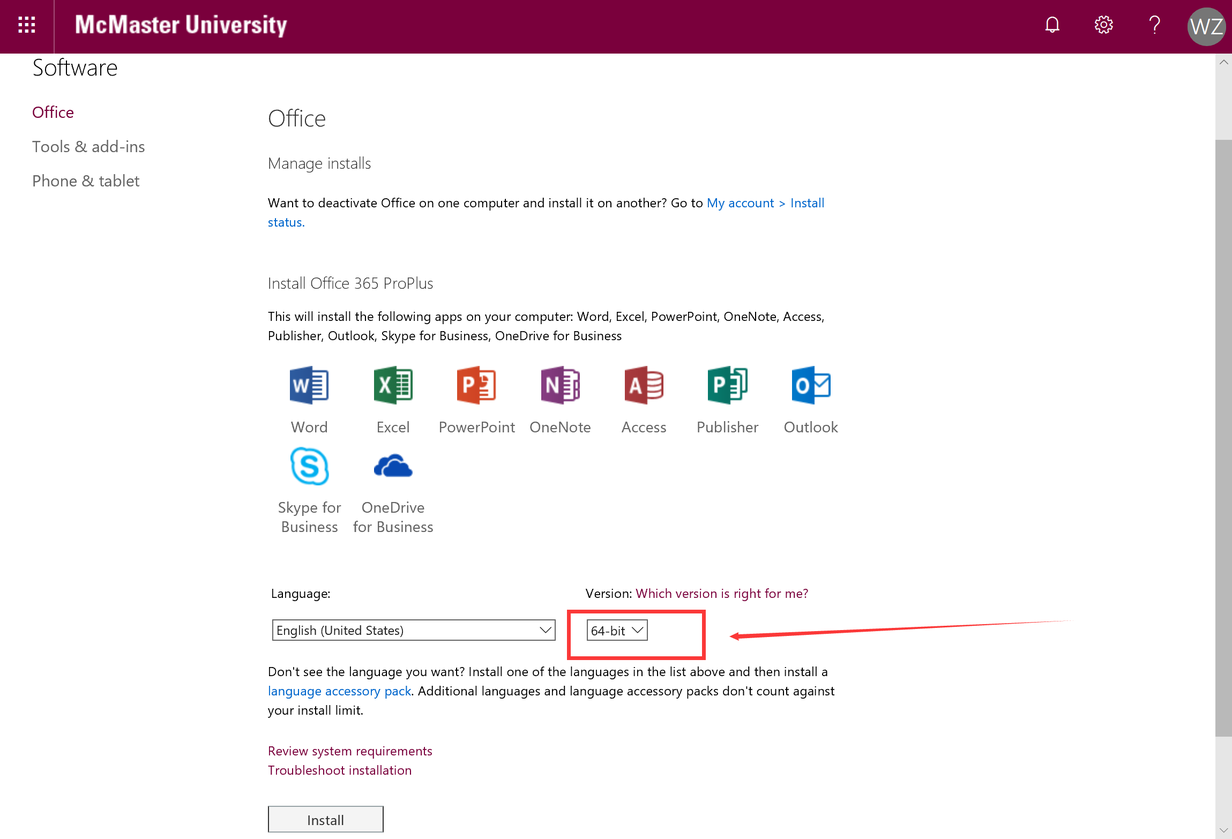
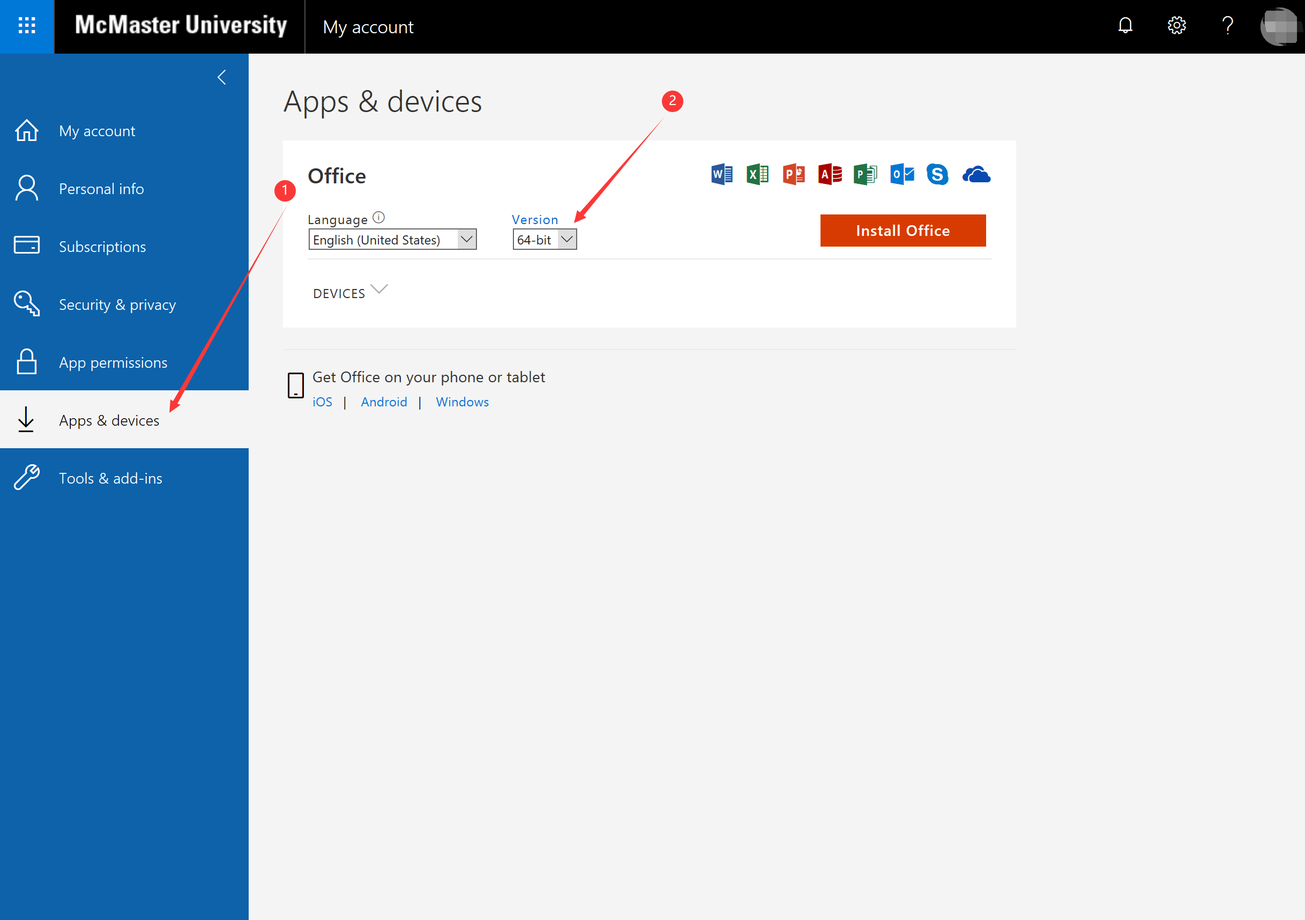
更新微软办公软件、网盘获取方式。更新相关信息

diff --git a/docs/BanGongRuanJianHeWangPan.rst b/docs/BanGongRuanJianHeWangPan.rst
@@ -3,10 +3,7 @@
 Microsoft Office 365
 -----------------------------
 | 学校已经为每一个在职的学生和员工购买了Office 365 ProPlus的授权。新生可能要等开学后半个月才能使用。https://www.mcmaster.ca/uts/licensing/msstudents.html
-| 学校购买的Office 365包括两部分服务：
-
-- Office 365 A1 for students：主要包括在线版本的office和团队合作工具Teams。https://products.office.com/en-us/academic/compare-office-365-education-plans
-- Office 365 ProPlus for students：主要包括完整的桌面版和移动版的office套件，以及Onedrive for business网盘。
+| 学校购买的Office 365订阅服务是：Microsoft 365 A3 for students use benefit（https://www.microsoft.com/en-ca/microsoft-365/academic/compare-office-365-education-plans）。它主要包括在线版本的office和团队合作工具Teams，以及Office 365 ProPlus for students。后者就是完整的桌面版和移动版的office套件，以及Onedrive for business网盘。
 
 .. image:: /resource/office365/Software_List.png
    :align: center
@@ -32,9 +29,7 @@ Microsoft Office 365
 .. image:: /resource/office365/office365_2.png
    :align: center
 
-第三步：在version的地方选择64-bit，然后点击下方的Install。
-
- | 这时候会下载一个exe的文件，它仅仅是一个安装器，它的作用是在线下载最新的office，并且是边下载边自动安装（click-to-run技术）。它不会下载一个iso镜像，但macOS版会下载一个镜像，然后自己去安装。
+第三步：先点击“Apps & devices”，然后在version的地方选择64-bit，最后点击下方的“Install Office”。这时候会下载一个exe的文件，它仅仅是一个安装器，它的作用是在线下载最新的office，并且是边下载边自动安装（click-to-run技术），而并不会下载一个iso镜像。但如果是macOS版，则会下载一个镜像，然后自己去安装。
 
 .. image:: /resource/office365/office365_3.png
    :align: center
@@ -65,32 +60,41 @@ Microsoft Office 365
 
 Windows 10 Education
 ----------------------------------------------
-McMaster已经为每一个学生购买了授权，每个学生都能得到一个正版的Windows 10 Education的序列号，Education版和Pro版的功能基本一致。大家如果有还是安装着Windows 10之前版本的老电脑，或Mac电脑装双系统，可以考虑用学校购买的授权。
+McMaster已经为每一个学生购买了授权，每个学生都能得到一个正版的Windows 10 Education的序列号，Education版和Pro版的功能基本一致，唯一的区别是桌面右下角会有“Windows 10 Education”一行小字。大家如果有还是安装着Windows 10之前版本的老电脑，或Mac电脑装双系统，可以考虑用学校购买的授权。
 
-| 获取地址：https://mcmaster.onthehub.com/WebStore/Welcome.aspx
-| 登录上面的网址，点击“Start Shopping”。
-| 用户名是MacId@mcmaster.ca，密码是登录mosaic的密码。
-| 可能需要做一个简单的问卷，然后就可以看到了Windows 10的下载了。
+- 获取地址：https://mcmaster.onthehub.com/WebStore/Welcome.aspx
+- 登录上面的网址，点击“Start Shopping”。
+- 用户名是MacId@mcmaster.ca，密码是登录mosaic的密码。
+- 可能需要做一个简单的问卷，然后就可以看到了Windows 10的下载了。登录进去上面的页面，还可以看到VMWare虚拟机的下载选项，这个软件也是免费的。大家如果需要安装VMWare的虚拟机，比如：VMware Fusion、VMware Workstation、VMware Workstation Player等等，也可以在这里下载到。
 
 .. image:: /resource/office365/windows10education.png
    :align: center
 
 注：Microsoft从Windows 10开始改变授权方式，一旦Windows 10在一台设备上激活，在硬件没有大的变动的情况下，重装任意多次相同的版本，联网后依然可以自动激活。比如：之前在某台电脑上激活过Win10 Home版，则可以重装任意次Home版都可以联网自动激活。但不可跨版本，比如之前激活过Home版，如果新装Pro版则不能自动激活，需要另外找Pro版的序列号。
 
+微软所有正版软件
+----------------------------------------------------
+McMaster已经为每一个学生都购买了Azure Dev Tools for Teaching（原来叫Imagine Premium）的授权，这样学生可以下载到所有微软还在支持的正版软件。例如：Windows 10 Pro、Visual Studio、SQL Server、Windows Server等等。
+
+| 获取步骤：
+| 第一步：登录UTS的网站（https://www.mcmaster.ca/uts/licensing/msstudents.html），点击“Azure Dev Tools for Teaching”下面的网页链接。
+
+.. image:: /resource/office365/MicrosoftZhengBanRuanJian01.png
+   :align: center
+
+第二步：在打开的网页里点击Sign in。用户名是麦马的邮箱，密码是mosaic的密码。
+
+.. image:: /resource/office365/MicrosoftZhengBanRuanJian02.png
+   :align: center
+
+第三步：先点击左边的“Software”，然后点击想要下载的软件，比如“Windows 10 (consumer editions), version 1909”。这时候在右边的弹出框中点“View Key”，这是系统就会给你一个正版的序列号，最后点“Download”按钮下载软件。
+
+.. image:: /resource/office365/MicrosoftZhengBanRuanJian03.png
+   :align: center
+
 网盘
 -----------------------------
-1. Microsoft Onedrive：Microsoft给每个注册了outlook.com、hotmail.com、live.com、msn.com邮箱的用户免费提供了Onedrive网盘。
-
-- 存储空间：5GB（免费）
-- 下载地址：①Windows 10：系统自带。②Windows 10之前版本的系统或macOS：https://onedrive.com/download 。
-- 官网：https://onedrive.com/
-- 登录方法：用微软邮箱登录后就可以使用。
-- 手机App：
-
-  - iOS：https://itunes.apple.com/ca/app/microsoft-onedrive/id477537958?mt=8
-  - Android：https://play.google.com/store/apps/details?id=com.microsoft.skydrive
-
-2. Microsoft Onedrive for Business：学校为所有学生和员工购买的office365里附带了Onedrive for Business网盘。
+1. Microsoft Onedrive for Business：学校为所有学生和员工购买的office365里附带了Onedrive for Business网盘。
 
 - 存储空间：1TB
 - 下载地址：①Windows 10：系统自带，②Windows 10之前版本的系统或macOS：https://onedrive.com/download 。
@@ -104,10 +108,40 @@ McMaster已经为每一个学生购买了授权，每个学生都能得到一个
 .. image:: /resource/office365/onedrive_2.png
    :align: center
 
-3. Google Drive（Personal）：Google为每个注册Gmail的用户提供Google Drive网盘。
+2. Google Drive（G Suite）：大家用的MacID@mcmaster.ca的麦马的邮箱里自带了Google Drive网盘。
+
+- 存储空间：Unlimited
+- 下载地址： https://www.google.com/drive/download/
+- 官网：https://drive.google.com/
+- 登录方法：用户名：MacID@mcmaster.ca。密码：登录mosaic的密码。
+- 注：在国内无法访问。毕业后由于MacID失效，网盘也会自动失效，所以毕业前请务必尽快下载备份。
+
+3. Macdrive：McMaster自建的网盘服务。用来存储不方便传播到校外的文件。
+
+- 存储空间：300GB
+- 下载地址： https://macdrive.mcmaster.ca/download_client_program/
+- 官网：https://macdrive.mcmaster.ca/
+- 登录方法：用户名：MacID@mcmaster.ca。密码：登录mosaic的密码。
+- 手机App：
+
+  - iOS：https://apps.apple.com/cn/app/seafile-pro/id639202512?l=en
+  - Android：https://play.google.com/store/apps/details?id=com.seafile.seadroid2
+
+4. Microsoft Onedrive：Microsoft给每个注册了outlook.com、hotmail.com、live.com、msn.com邮箱的用户免费提供了Onedrive网盘。
+
+- 存储空间：5GB（免费）
+- 下载地址：①Windows 10：系统自带。②Windows 10之前版本的系统或macOS：https://onedrive.com/download 。
+- 官网：https://onedrive.com/
+- 登录方法：用微软邮箱登录后就可以使用。
+- 手机App：
+
+  - iOS：https://itunes.apple.com/ca/app/microsoft-onedrive/id477537958?mt=8
+  - Android：https://play.google.com/store/apps/details?id=com.microsoft.skydrive
+
+5. Google Drive（Personal）：Google为每个注册Gmail的用户提供Google Drive网盘。
 
 - 存储空间：15GB（免费）
-- 下载地址：https://www.google.com/drive/download/client/
+- 下载地址：https://www.google.com/drive/download/
 - 官网：https://drive.google.com/
 - 登录方法：使用Gmail的邮箱账户登录即可。
 - 手机App：
@@ -116,24 +150,15 @@ McMaster已经为每一个学生购买了授权，每个学生都能得到一个
   - Android：https://play.google.com/store/apps/details?id=com.google.android.apps.docs
 - 注：在国内无法访问。
 
-4. Google Drive（G Suite）：大家用的MacID@mcmaster.ca的Google企业邮箱里自带了Google Drive网盘。
+其它常用软件
+----------------------------------
+1) WinRAR：http://rarlab.com/
+#) Adobe Acrobat Reader：https://get.adobe.com/reader/
+#) MATLAB：https://pan.luochenzhimu.com/disk/software/MATLAB/
+#) LaTeX：下面两个必须都安装
 
-- 存储空间：Unlimited
-- 下载地址： https://www.google.com/drive/download/client/
-- 官网：https://drive.google.com/
-- 登录方法：用户名：MacID@mcmaster.ca。密码：登录mosaic的密码。
-- 注：在国内无法访问。毕业后由于MacID失效，网盘也会自动失效，所以毕业前请务必尽快下载备份。
-
-5. Dropbox：它也是比较流行的网盘。
-
-- 存储空间：2GB（免费）
-- 下载地址： https://www.dropbox.com/install
-- 官网：https://www.dropbox.com/login
-- 登录方法：在Dropbox官网上自行注册登录。
-- 手机App：
-
-  - iOS：https://itunes.apple.com/ca/app/dropbox/id327630330?mt=8
-  - Android：https://play.google.com/store/apps/details?hl=en&id=com.dropbox.android
+- LaTex符号集、命令行编译器（先安装）：https://miktex.org/download
+- TeXstudio：https://www.texstudio.org 这是一个带有图形界面集成开发环境，带有语法高亮、关键词提示及自动补全、自动安装缺失的package等功能的LaTeX集成环境，必须等上面的安装完毕之后再安装。
 
 Microsoft实用办公工具
 --------------------------------------------------
@@ -155,7 +180,7 @@ Microsoft实用办公工具
 
   - iOS：https://itunes.apple.com/app/microsoft-to-do/id1212616790
   - Android：https://play.google.com/store/apps/details?id=com.microsoft.todos
-  - Windows 10 App：https://www.microsoft.com/en-CA/store/p/project-cheshire/9nblggh5r558?rtc=1
+  - Windows 10 App：https://www.microsoft.com/en-ca/p/microsoft-to-do-lists-tasks-reminders/9nblggh5r558?rtc=1
 
 4. Microsoft Edge：微软windows 10自带浏览器的手机版。
 
@@ -178,16 +203,6 @@ Microsoft实用办公工具
   - iOS：https://itunes.apple.com/ca/app/microsoft-remote-desktop/id714464092?mt=8
   - Android：https://play.google.com/store/apps/details?id=com.microsoft.rdc.android
 
-其它常用软件
-----------------------------------
-1) WinRAR：http://rarlab.com/
-#) Adobe Acrobat Reader：https://get.adobe.com/reader/
-#) MATLAB：https://pan.luochenzhimu.com/disk/software/MATLAB
-#) LaTeX：下面两个必须都安装
-
-- LaTex符号集、命令行编译器（先安装）：https://miktex.org/download
-- TeXstudio：https://www.texstudio.org 这是一个带有图形界面集成开发环境，带有语法高亮、关键词提示及自动补全、自动安装缺失的package等功能的LaTeX集成环境，必须等上面的安装完毕之后再安装。
-
 附
 -------------------------
 1. Office 2019 和 Office 365
@@ -206,19 +221,9 @@ Microsoft实用办公工具
 
 - outlook.com：就是我们平常说的个人版的outlook邮箱。
 - Outlook：指的是Microsoft推出的邮箱客户端，仅仅是个软件。可以同步几乎所有的邮箱，包括outlook.com、Gmail、163邮箱等等的邮件。
-- Exchange：Microsoft推出的企业邮箱，企业付费后可以自定义用户名和域名，比如McMaster的企业邮箱的用户名和域名就是 MacID@mcmaster.ca。
+- Exchange：Microsoft推出的企业邮箱，企业付费后可以自定义用户名和域名，比如McMaster的企业邮箱的用户名和域名就是MacID@mcmaster.ca。
 
-3. Microsoft Imagine Premium：部分学院额外为本院每一个学生购买了Microsoft Imagine Premium的授权。这些学院的学生可以免费获得微软所有的正版软件（Microsoft Office除外）及序列号。这其中包括了Windows 10 Pro版。请联系本学院technical staff获取账户。用户名通常是McMaster的邮箱，密码是mosaic的密码。账户在McMaster上学期间长期有效，毕业后自动失效，但已经生成的正版序列号和已经激活的软件不会失效，可以长期使用。
-
-- ECE：http://dreamspark.ece.mcmaster.ca/ 。使用ECE的domain账户登录，不是mosaic账户。如果没有，可以找小秘或technical staff设置一下。在校外访问需要VPN。
-- CAS：https://e5.onthehub.com/WebStore/ProductsByMajorVersionList.aspx?cmi_cs=1&cmi_mnuMain=bdba23cf-e05e-e011-971f-0030487d8897&ws=925e5046-720e-e211-bd05-f04da23e67f6&vsro=8 
-- Business：https://mcmastermba.onthehub.com/WebStore/Welcome.aspx?utm_medium=school-finder&utm_campaign=school-finder&utm_source=McMaster%20University%20DeGroote%20School%20of%20Business
-- Mechanical Engineering：https://e5.onthehub.com/WebStore/ProductsByMajorVersionList.aspx?cmi_cs=1&cmi_mnuMain=bdba23cf-e05e-e011-971f-0030487d8897&ws=fca22d24-02cf-e711-80f9-000d3af41938&vsro=8
-
-.. image:: /resource/office365/Imagine_Premium.png
-   :align: center
-
-4. 学院服务器：部分学院提供了高性能计算机或超级计算机供学生使用。
+3. 学院服务器：部分学院提供了高性能计算机或超级计算机供学生使用。
 
   A. Computing and Software
 
@@ -240,7 +245,7 @@ Microsoft实用办公工具
   - https://rhpcs.mcmaster.ca/
   - 请联系导师或本院的technical staff。
 
-5. 多人实时共同编辑一个文档
+4. 多人实时共同编辑一个文档
 
 - 如果使用Onedrive网盘，则可以实现多人实时共同编辑一个Word文档、Excel、PowerPoint的功能。以下是步骤：
 

diff --git a/docs/KanBingYuBaoXian.rst b/docs/KanBingYuBaoXian.rst
@@ -23,7 +23,7 @@
 
 一、UHIP/OHIP
 
-- 国际学生参加的是UHIP（University Health Insurance Plan），而Canada本国学生（Permanent residence和Canada citizen）参加的是OHIP（Ontario Health Insurance Plan）。UHIP从刚来Canada入学的前一个月的10号开始生效。毕业后可申请延长最多4个月。
+- 国际学生参加的是UHIP（University Health Insurance Plan），而Canada本国学生（Permanent residence和Canada citizen）参加的是OHIP（Ontario Health Insurance Plan）。UHIP从刚来Canada入学的前一个月的10号开始生效。毕业后，可以因要等待参加毕业典礼或者论文答辩延长最多4个月。
 - 官网：https://uhip.ca/
 - 费用（2019年）：国际学生需要付费参加UHIP，近几年的年费是单人$636，学生家属的费用和学生一样。
 - 学校的UHIP由Sun Life承保，从2017年开始学校会把UHIP coverage card（医保卡）通过邮件的方式发给大家，如果没收到可以自行上Sun Life网站打印UHIP coverage card。教程：http://uhip.ca/Enrollment/CoverageCard 。建议大家把打印出来的coverage card和自己的护照或驾照放一起。平时随身携带，以防万一。
@@ -118,7 +118,7 @@
   - UHIP
   - MSU Health Plan Insurance
   - MSU Dental Plan Insurance
-- 联培的学生（Visiting Student）
+- 联培学生（Visiting Student）
 
   - UHIP Premium
 - 博士后（Post Doc）：具体看 https://hr.mcmaster.ca/resources/benefit-booklets/ 。在搜索框里填写“post doc”。
@@ -129,13 +129,19 @@
   - Extended Health（药费等，学校付钱）
   - Group Life（生命安全保险，学校付钱）
 
-注：五月份入学的学生虽然自动会有UHIP，但不会自动购买GSA Health/Dental Insurance Plan。这就需要新生自己Self Enrolment。详情：http://studentcare.ca/rte/en/McMasterUniversity_ChangeofCoverage_SelfEnrolment
+注：
 
-2. 退出（opt out）：学校的保险都是强制购买的，如果想退出只能是在其它地方已经购买了相同的保险。常见情形仅有如下：
+- 五月份入学的学生虽然自动会有UHIP，但不会自动购买GSA Health/Dental Insurance Plan。这就需要新生自己Self Enrolment。详情：http://studentcare.ca/rte/en/McMasterUniversity_ChangeofCoverage_SelfEnrolment
+- 联培学生（Visiting Student）需自己购买UHIP，因为学校并不清楚学生何时来Canada。https://iss.mcmaster.ca/studentlife/healthcare/#visiting
+
+2. 退出（opt out）：学校的保险都是强制购买的，如果想退出只能是在其它地方已经购买了相同的保险或者变更了移民身份。常见情形仅有如下：
 
 - 如果有TA或者RA in lieu，则属于CUPE工会的成员，工会成员有CUPE Unit 1 Dental Plan，则这个时候自动退出GSA Dental Insurance Plan，并且还可以从UHIP中退回$200的保费。
 - 如果就读的项目是Part Time的，意思就是在校外公司有全职的工作，与此同时在麦马读了一个在职研究生。通常稍大的公司都会为员工购买保险，这时候就不需要购买GSA的Health和Dental的保险了。学校会先收相应的费用，然后再自己申请退出保险，退回保费。申请退出保险有时间限制，通常是term 1或term 2开学的第一个月。具体看：http://studentcare.ca/rte/en/McMasterUniversity_ChangeofCoverage_OptOuts
-- 已经毕业的研究生。例如：读一个学位是16个月，第二年term 1学期结束后就毕业回国了，那可以申请退回部分UHIP的费用。详情看：https://iss.mcmaster.ca/studentlife/healthcare/#refunds 和 https://iss.mcmaster.ca/studentlife/healthcare/#exemptions
+- 12月毕业的研究生：https://iss.mcmaster.ca/studentlife/healthcare/#refunds
+
+  - 毕业后依然在Canada：可退回2个月的UHIP的费用。UHIP的有效期变成6月30日。
+  - 毕业后在6月底之前离开Canada：可以申请把UHIP的有效期变更为最后留在Canada的那个月，退会之后月份的费用。
 - MBA学生：https://www.msumcmaster.ca/services-directory/36-health-and-dental-insurance/opt-out
 
 看病

diff --git a/docs/QiTaMcMasterGongLveHuiZong.rst b/docs/QiTaMcMasterGongLveHuiZong.rst
@@ -29,7 +29,7 @@
 1) 比较特殊的是Boxing Day和New Year's Day中间只有几天，所以大多数非服务业的职位（包括学生）依然会放假。这时候会出现一个大约10天的长假。
 #) 对于学生来说，是没有暑假和寒假的。一个学年有3个term，每个term是4个月。所以不会有任何假期，包括本科生（本科生term3要去校外实习）。
 #) 对于研究生来说，大部分研究生虽然课程比较少，term5甚至term3开始就没有任何课程了，但不代表就处于放假状态。准确的说，研究生也没有任何假期，即使没有课也要跟导师一起写论文，或做项目。不过大家也不用担心，如果想回国，可以圣诞节到元旦那几天回去。并且大多数导师都会在一年里批一个月的假。
-#) 此外，由于本科生在term 1和term2有recess week（也叫reading week）https://registrar.mcmaster.ca/dates-and-deadlines/ ，这两周不上课，所以有些教授这两周可能也会休息，这样研究生就可以蹭本科生的福利也休息一下。但绝不能保证一定是放假。“There is no official fall break or reading week for graduate students (except MBA). Students should check with their program and their course instructor(s) as to whether classes will be held during these periods.”
+#) 此外，由于本科生在term 1和term2有recess week（也叫reading week） https://registrar.mcmaster.ca/dates-and-deadlines/ ，这两周不上课，所以有些教授这两周可能也会休息，这样研究生就可以蹭本科生的福利也休息一下。但绝不能保证一定是放假。“There is no official fall break or reading week for graduate students (except MBA). Students should check with their program and their course instructor(s) as to whether classes will be held during these periods.”
 
 作息
 ------------------

diff --git a/docs/ZuFang.rst b/docs/ZuFang.rst
@@ -134,7 +134,7 @@ https://housing.mcmaster.ca/future-residents/how-to-apply/#tab-content-returning
 3. 签租房合同（lease agreement），通过扫描和email的方式。
 
 - 从2018年4月30日起，Ontario省租房签的合同必须使用省政府提供的模板（standard lease）。详细说明：http://www.mah.gov.on.ca/Page18704.aspx 。模板地址：http://www.forms.ssb.gov.on.ca/mbs/ssb/forms/ssbforms.nsf/FormDetail?OpenForm&ACT=RDR&TAB=PROFILE&SRCH=&ENV=WWE&TIT=2229E&NO=047-2229E
-- 双方必须都要拿到双方签好字的合同才算签合同完毕。公寓在申请的时候会提供一堆个人材料，比如护照、收入证明、SIN、前任房东的联系方式等等。并且会强制额外购买财产保险（大概每年一二百加元）。
+- 双方必须都要拿到双方签好字的合同才算签合同完毕。公寓在申请的时候会提供一堆个人材料，比如护照、收入证明、SIN、前任房东的联系方式等等。并且会强制额外购买财产保险（大概每年一二百加元）。购买租客保险可以联系群里的19-MBA-王乐雪，详见 `房屋保险`_ 。
 
 4. 交定金（deposit）：交完定金可以让房东写一个收据（receipt）。定金可以通过western union或已经在Hamilton的学长学姐们帮忙交一下。如果大家想找学长学姐交定金，可以先把加元转给他们，然后让他们去交。如果学长学姐同意用人民币抵偿加元，请按加元的现汇卖出价或现钞卖出价来计算所需人民币的数目。http://www.boc.cn/sourcedb/whpj/
 
@@ -259,3 +259,4 @@ https://housing.mcmaster.ca/future-residents/how-to-apply/#tab-content-returning
    - 14-EP-张斌
 
 .. _介绍: GongJiaoChe.html#id2
+.. _房屋保险: FangWuBaoXian.html

diff --git a/docs/QunDaShenJieShao.rst b/docs/QunDaShenJieShao.rst
@@ -18,7 +18,6 @@
 ---------------------------------------
 | ★14-Health Research Method-常亚平：Health Science Ph.D.。本群为数不多的医学院博士，大家有小病小样可以联系她寻求帮助。若对基督教会感兴趣，也可以联系此人。先已毕业在麦马Health Science学院任Assistant Professor。
 | ★15-ECE-Huawei Zhu：ECE PhD。北大毕业来McMaster读博士的才女。虽然在ECE学院，但对经济学颇有了解。
-| ☆15-MED-周光宇：W booth学院Master。周光宇学长在Canada生活多年，对有关车辆的问题了如指掌，例如：驾照、租车、买车、相关政策等等。大家如果有问题，可以写在群里，然后at他。
 | ★16-MEEI-张宸赫：W booth学院Master。他有1年半的两次创业经验，进行产品研发，财务预测，市场投放。任何有想创业想法的同学，不管是灵光一动还是很成熟的想法，都十分非常欢迎去找他共同交流讨论。他目前在Hamilton市中心的CIBC任Financial Services Representative。大家可以去找他开户。
 | ★19-CAS-郝鸣飞：2014年在麦马开始硕士的学习，毕业后在多伦多一家软件公司任Lead Software Architecturer（首席软件架构师），对计算机行业各种最新的技术深有了解。2019年初回麦马继续上PhD（part-time）。欢迎大家和他交流与计算机相关的任何问题。
 | ★19-MBA-王乐雪：Degroote商学院MBA。王乐雪学姐对有关新车二手车保险、住房保险的相关问题颇有了解，例如保险价格、购买、续约等。大家在购买保险前，有任何保险相关的问题，可以写在群里at学姐，知无不答。

diff --git a/docs/McMasterChengJiDanZhengMingXin.rst b/docs/McMasterChengJiDanZhengMingXin.rst
@@ -1,0 +1,29 @@
+McMaster成绩单、证明信
+========================
+由于大家每年在杂费里已经交了相关的费用，所以开具相关材料的时候就不用再额外花钱了。所有麦马给学生开具的证明材料都在Registrar网站上：https://registrar.mcmaster.ca/services/
+
+.. image:: /resource/ChengJiDanFeiYong.png
+   :align: center
+
+1. 成绩单（Transcripts）
+
+ | 麦马的成绩单分为两种：正式的和非正式的成绩单。
+
+- 正式成绩单：雇用单位或者其他的学术机构要求提供时，由学术机构或个人向学校提出申请而办理的成绩单。这种成绩单是放在密封的信封里。
+- 非正式的成绩单：相对容易办理，这种成绩单在Mosaic/Student Centre/My Academics里办理，可以导出为pdf，方便快捷。
+
+具体的流程和介绍请参考：https://registrar.mcmaster.ca/services/transcripts/request/
+
+2. McMaster在读证明
+
+在读证明的开具与国内略有不同，这里称之为Enrolment Verification。一般通过Mosaic/Student Centre即可办理。
+具体的流程和介绍请参考：https://registrar.mcmaster.ca/services/vertifications/。
+
+3. 学位证明（Degree verification）：https://registrar.mcmaster.ca/services/degree-verification/
+4. 联培学生确认信（Visiting student/Letter of Permission (LOP)）：https://registrar.mcmaster.ca/services/lop/#tab-2
+5. 学位认证（Digital diplomas）：https://registrar.mcmaster.ca/digitaldiplomas/
+
+.. admonition:: 本页作者
+   
+   - 16-Chem-孟凡旺
+   - 17-CAS-赵伟

diff --git a/docs/TiYuGuan.rst b/docs/TiYuGuan.rst
@@ -34,7 +34,7 @@
 
 研究生依然分2种情况：
 
-- 所有的在McMaster读学位的研究生，不管是Full-time还是Part-time，都已经在杂费里交了Sports Complex Building和Athletics & Rec Activity的费用，这样不需要再额外付费就可以使用除体育馆健身房以外的任何设施。
+- 所有在McMaster读学位的研究生，不管是Full-time还是Part-time，都已经在杂费里交了Sports Complex Building和Athletics & Rec Activity的费用，这样不需要再额外付费就可以使用除体育馆健身房以外的任何设施。
 - 对于访问学者（Visiting Scholar）、以及其他任何杂费里没有交Sports Complex Building和Athletics & Rec Activity的费用的研究生，则无法使用体育馆里任何设施，甚至无法用学生卡刷卡进入。
 
 使用
@@ -57,7 +57,8 @@
 
 游泳池
 -----------------------------
-| https://rec.mcmaster.ca/programs/drop-ins/recreational-swimming
+游泳馆开放时间安排：https://rec.mcmaster.ca/programs/drop-ins/recreational-swimming 或者使用手机App查看。
+
 | 学校的室内游泳池条件可以说非常好，全长50米，25米是浅水（1.3米深），25米是深水（4.9米深）。平常有一堵可移动的墙隔开。水池是温水，大概在25度左右。所以一年四季游泳都非常舒服。需要注意的是水池里的水虽然经常更换，但还是加了很多游泳池专用盐，因此务必佩戴游泳眼镜，否则在游泳的时候无法睁开眼睛，看清方向。
 | 日程安排的名词解释：
 

diff --git a/docs/index.rst b/docs/index.rst
@@ -8,7 +8,7 @@ Welcome to McMaster University!
 
 新生寄语：
 -----------------------------
-欢迎19级新生加入McMaster大家庭！请仔细阅读群公告和群文件，在新浪微博上关注“麦克马斯特大学研究生院”。下面是一个简单的入学前指导：
+欢迎19级新生加入McMaster大家庭！请仔细阅读群公告和群文件。下面是一个简单的入学前指导：
 
 1. 如果你已经打算来加拿大学习，现在需要抓紧解决签证和机票的问题。从四五月份开始集中办理签证的同学越来越多，机票的价格也会越来越高。
 2. 当解决完这两件事后，要继续处理租房的问题，McMaster的研究生必须在校外租房，由于租期一般是从9月开始，所以9月之前到需要先找短租，新生一定要在来之前就把短租找好，否则会出现到校后没有地方住的尴尬局面。租房信息请浏览 `租房`_ 。请大家仔细查看并询问房东，往年出现过广告和实际情况差异巨大的情况。也可以询问群里的学长学姐们，他们可能毕业后会把自己的房子腾出来，这样可以在一定程度上减少租房的麻烦，也比较可信保险。
@@ -64,8 +64,7 @@ Welcome to McMaster University!
    campusDiTu
    TiYuGuan
    TuShuGuan
-   McMasterZaiDuZhengMing
-   McMasterChengJiDan
+   McMasterChengJiDanZhengMingXin
    ExtendStudyPermitVisa
    QiTaMcMasterGongLveHuiZong
 
